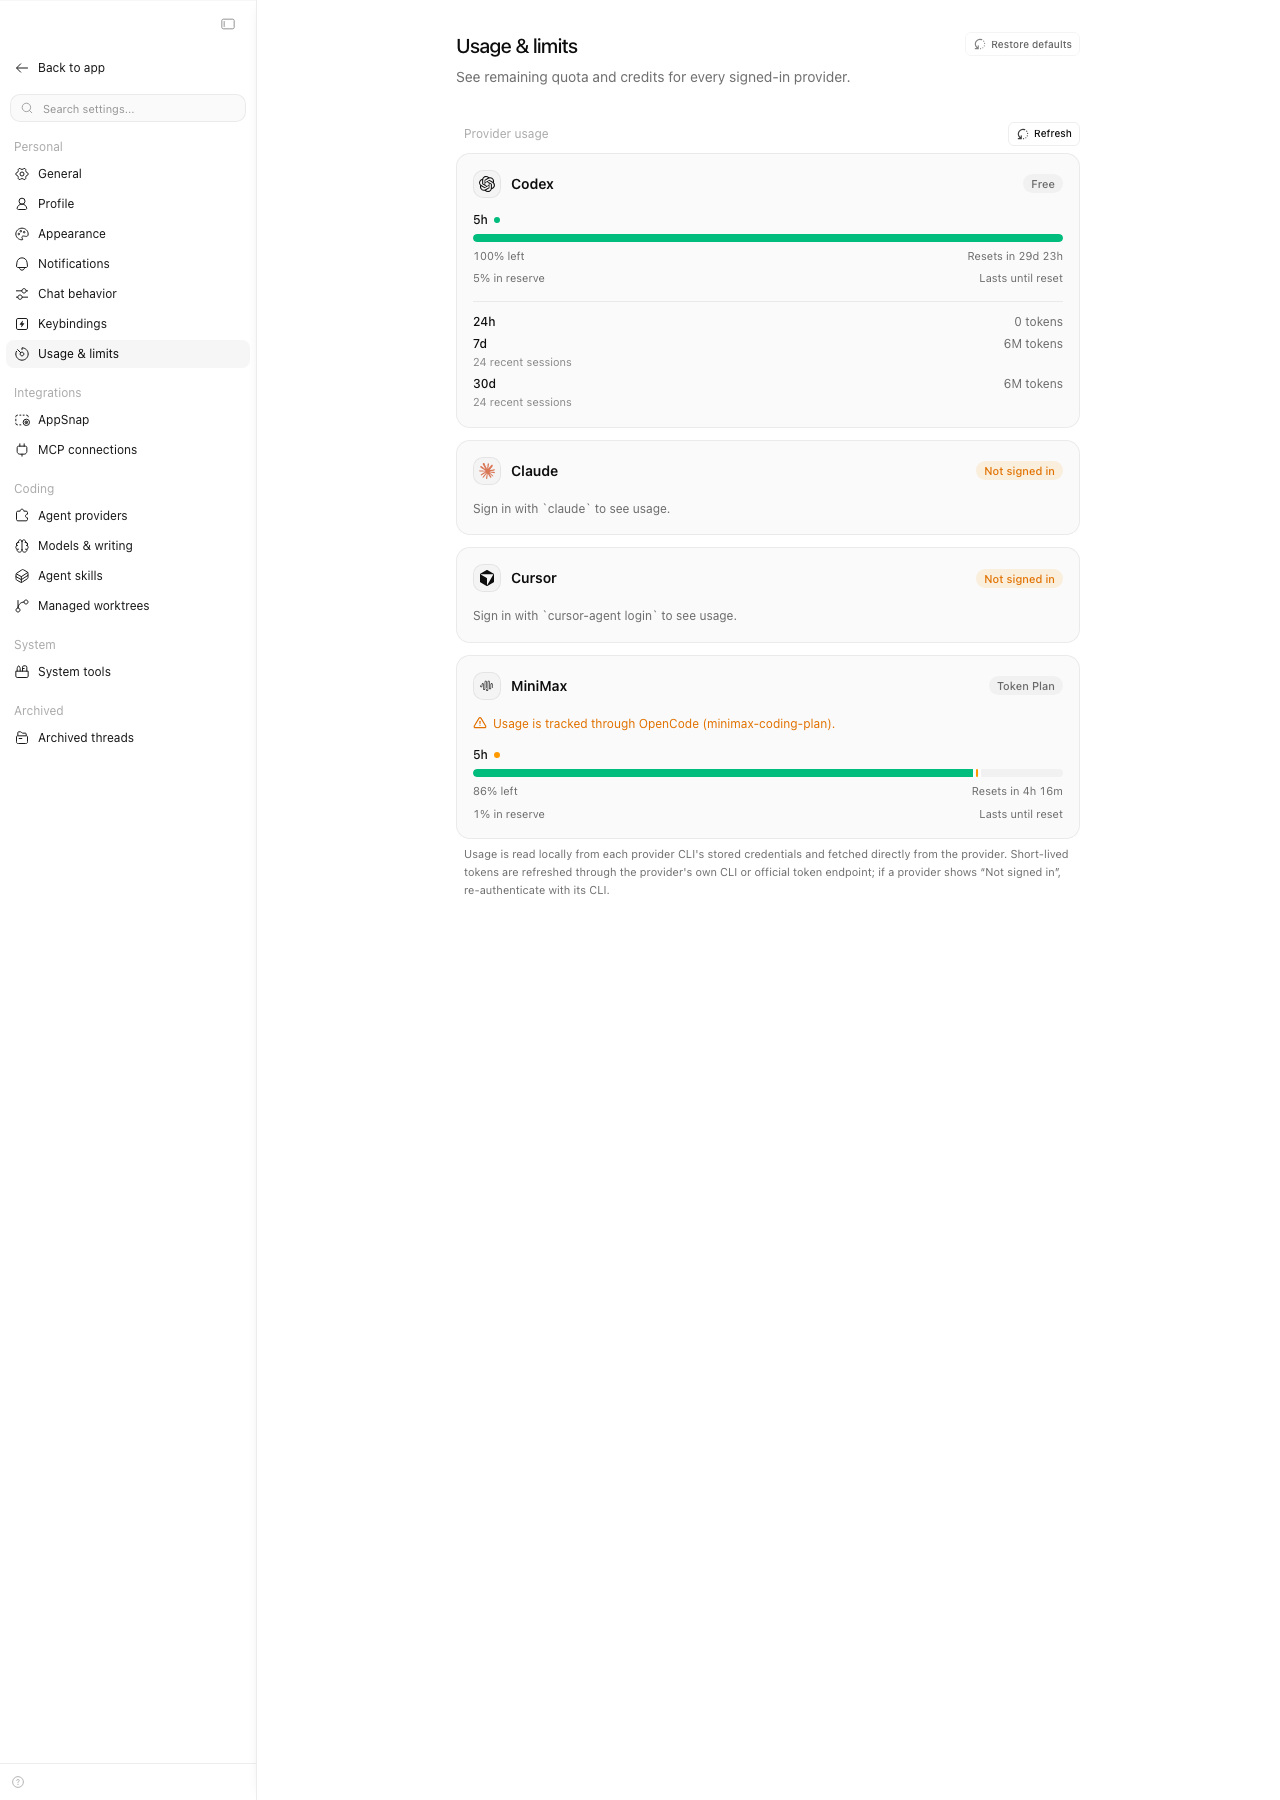
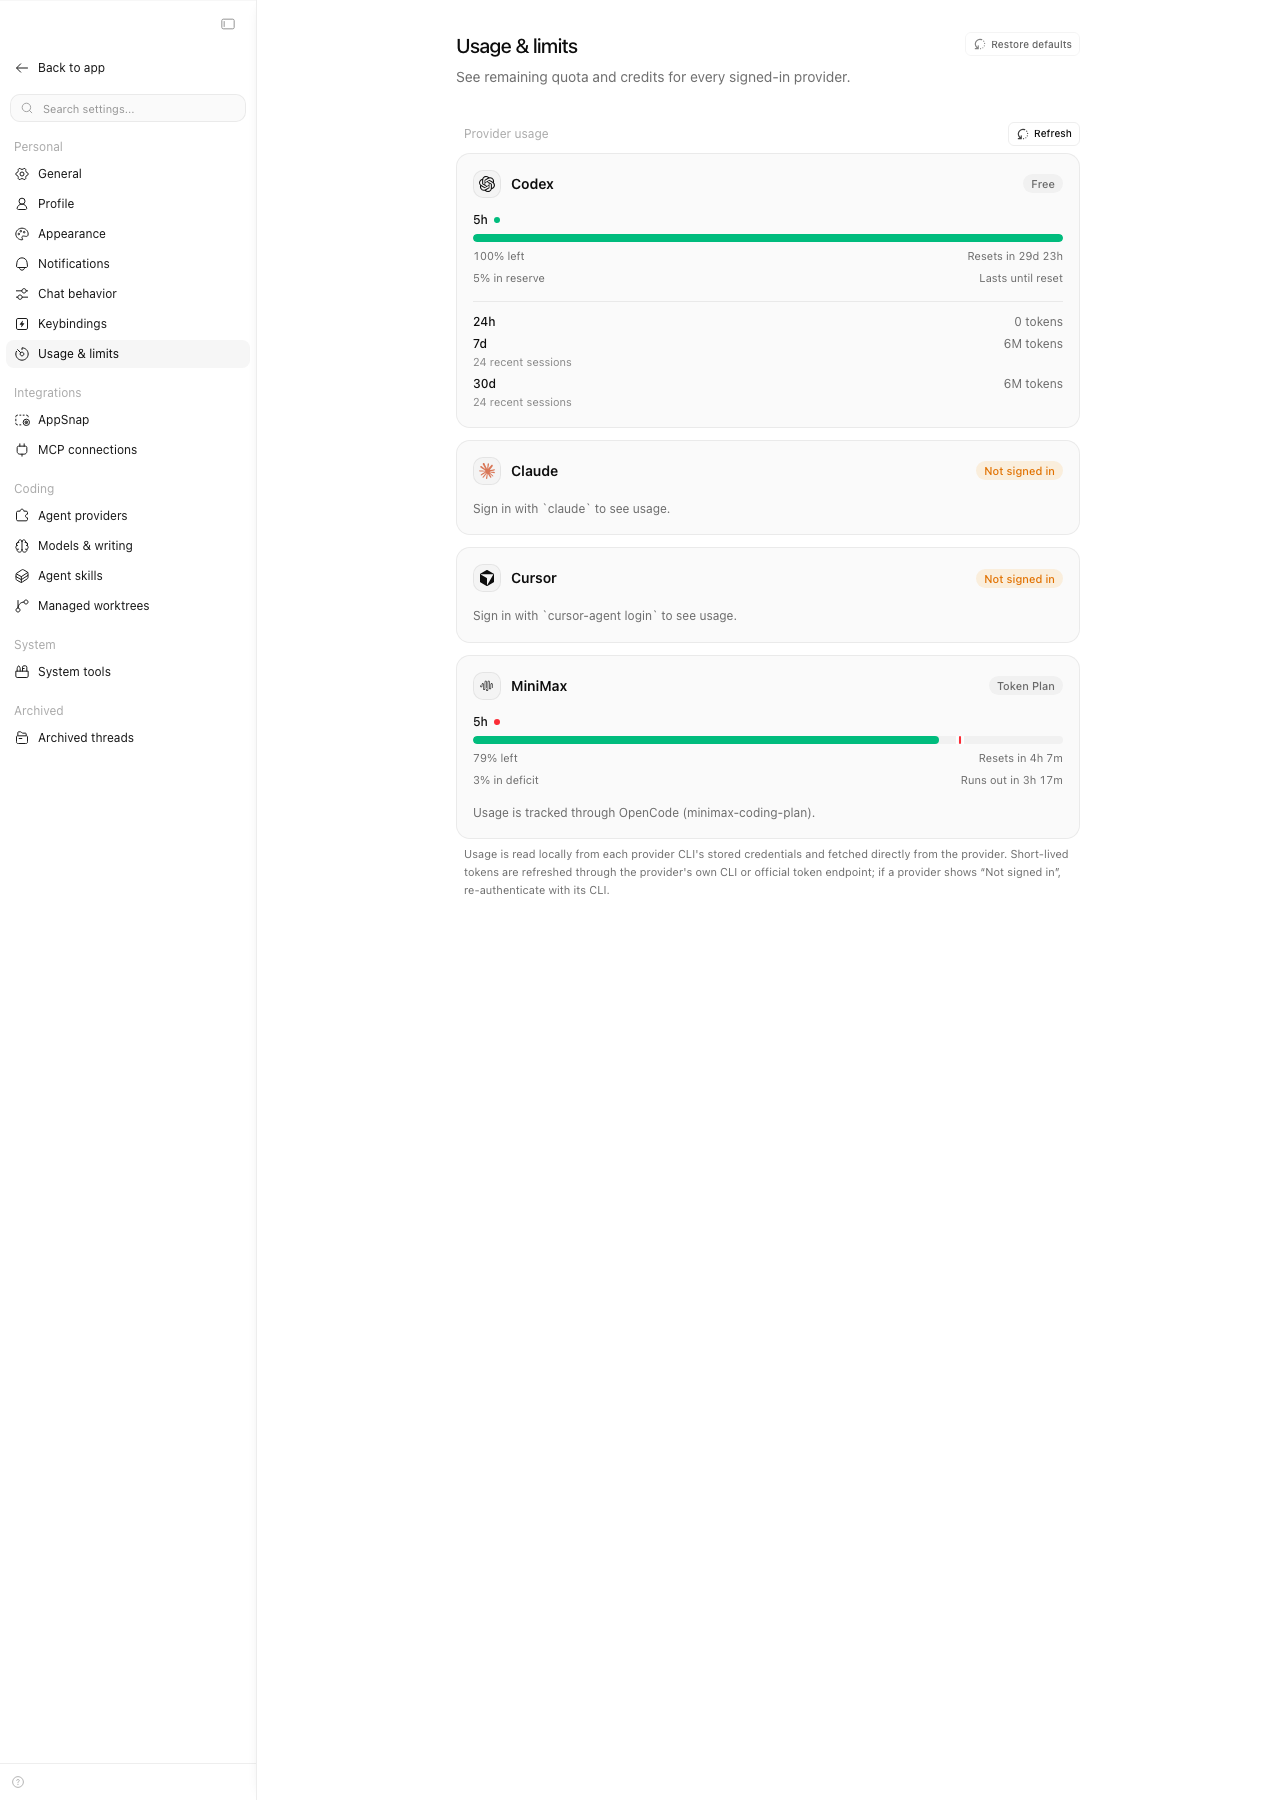
feat(server): render informational usage notes as a muted footnote
Adds an optional note field to the provider usage snapshot, distinct from
detail (which the UI surfaces as a warning-style notice). The MiniMax card
uses it to explain that usage is tracked through OpenCode
(minimax-coding-plan) without a bright yellow warning banner.

Changed region(s): [[0.375, 0.4044, 0.8125, 0.4667]]

diff --git a/packages/contracts/src/server.ts b/packages/contracts/src/server.ts
@@ -152,6 +152,9 @@ export const ServerProviderUsageSnapshot = Schema.Struct({
   status: Schema.optional(ProviderUsageStatus),
   planName: Schema.optional(TrimmedNonEmptyString),
   detail: Schema.optional(TrimmedNonEmptyString),
+  // Informational footnote rendered under the card (e.g. "Usage is tracked through OpenCode").
+  // Distinct from `detail`, which the UI surfaces as a warning-style notice.
+  note: Schema.optional(TrimmedNonEmptyString),
   // True when this is a re-served last-good snapshot (e.g. the provider is rate-limiting live
   // fetches) rather than a fresh read; `updatedAt` then still reflects the original fetch time.
   stale: Schema.optional(Schema.Boolean),

diff --git a/apps/server/src/providerUsage/parse.ts b/apps/server/src/providerUsage/parse.ts
@@ -104,6 +104,7 @@ export interface SnapshotInput {
   usageLines?: ReadonlyArray<ServerProviderUsageLine>;
   planName?: string;
   detail?: string;
+  note?: string;
 }
 
 export function buildSnapshot(input: SnapshotInput): ServerProviderUsageSnapshot {
@@ -116,6 +117,7 @@ export function buildSnapshot(input: SnapshotInput): ServerProviderUsageSnapshot
     status: input.status,
     ...(input.planName ? { planName: input.planName } : {}),
     ...(input.detail ? { detail: input.detail } : {}),
+    ...(input.note ? { note: input.note } : {}),
   };
 }
 

diff --git a/apps/server/src/providerUsage/providers/minimax.test.ts b/apps/server/src/providerUsage/providers/minimax.test.ts
@@ -220,7 +220,7 @@ describe("minimaxUsageFetcher", () => {
     const snapshot = await minimaxUsageFetcher.fetch(makeCtx(dir));
     expect(snapshot.status).toBe("ok");
     expect(snapshot.planName).toBe("Token Plan");
-    expect(snapshot.detail).toBe("Usage is tracked through OpenCode (minimax-coding-plan).");
+    expect(snapshot.note).toBe("Usage is tracked through OpenCode (minimax-coding-plan).");
     expect(snapshot.limits).toHaveLength(1);
     expect(calledUrls).toHaveLength(1);
   });

diff --git a/apps/web/src/components/settings/ProviderUsageSettingsPanel.tsx b/apps/web/src/components/settings/ProviderUsageSettingsPanel.tsx
@@ -118,6 +118,9 @@ function ProviderUsageCard({
                 surface="settings"
               />
             ) : null}
+            {snapshot.note ? (
+              <p className="text-xs leading-relaxed text-muted-foreground">{snapshot.note}</p>
+            ) : null}
           </>
         ) : (
           <p className="text-xs leading-relaxed text-muted-foreground">

diff --git a/apps/server/src/providerUsage/providers/minimax.ts b/apps/server/src/providerUsage/providers/minimax.ts
@@ -286,7 +286,7 @@ export const minimaxUsageFetcher: ProviderUsageFetcher = {
       source: SOURCE,
       ...(planName ? { planName } : {}),
       limits,
-      detail: "Usage is tracked through OpenCode (minimax-coding-plan).",
+      note: "Usage is tracked through OpenCode (minimax-coding-plan).",
     });
   },
 };
